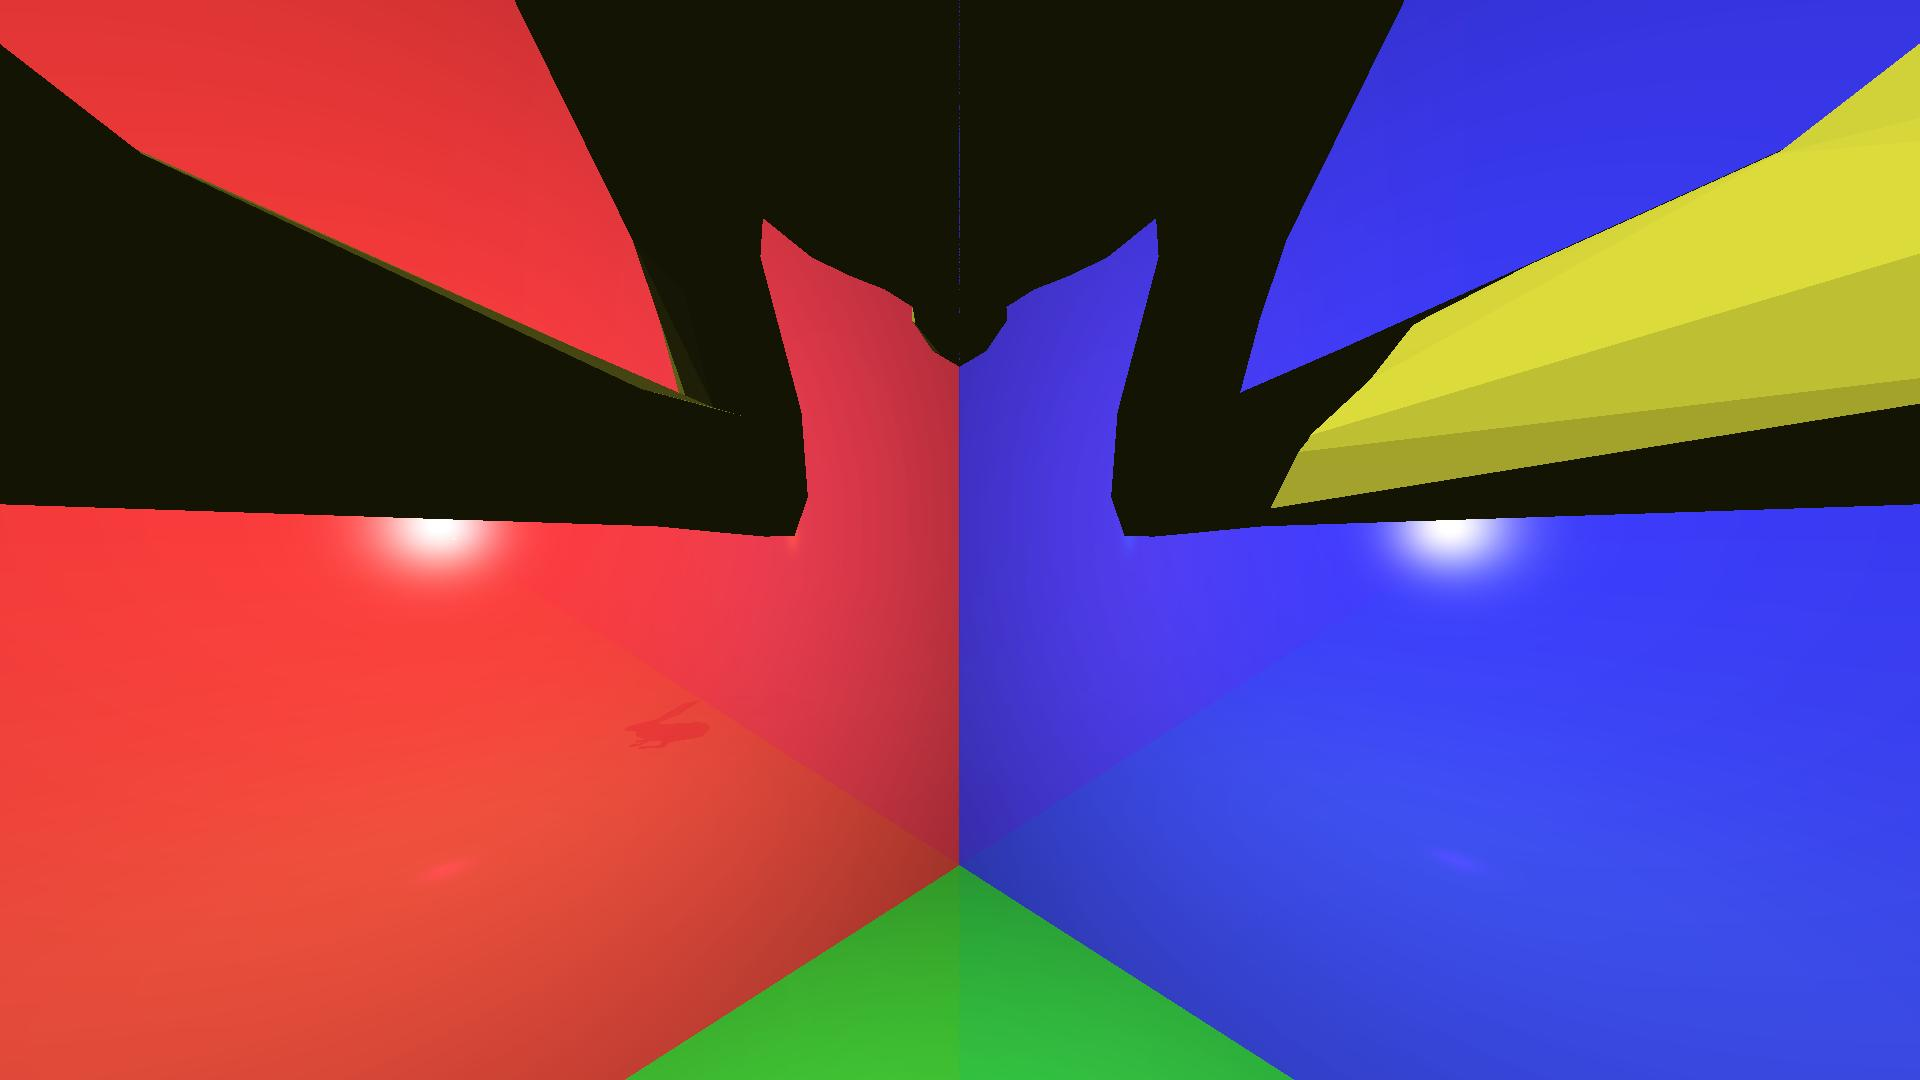
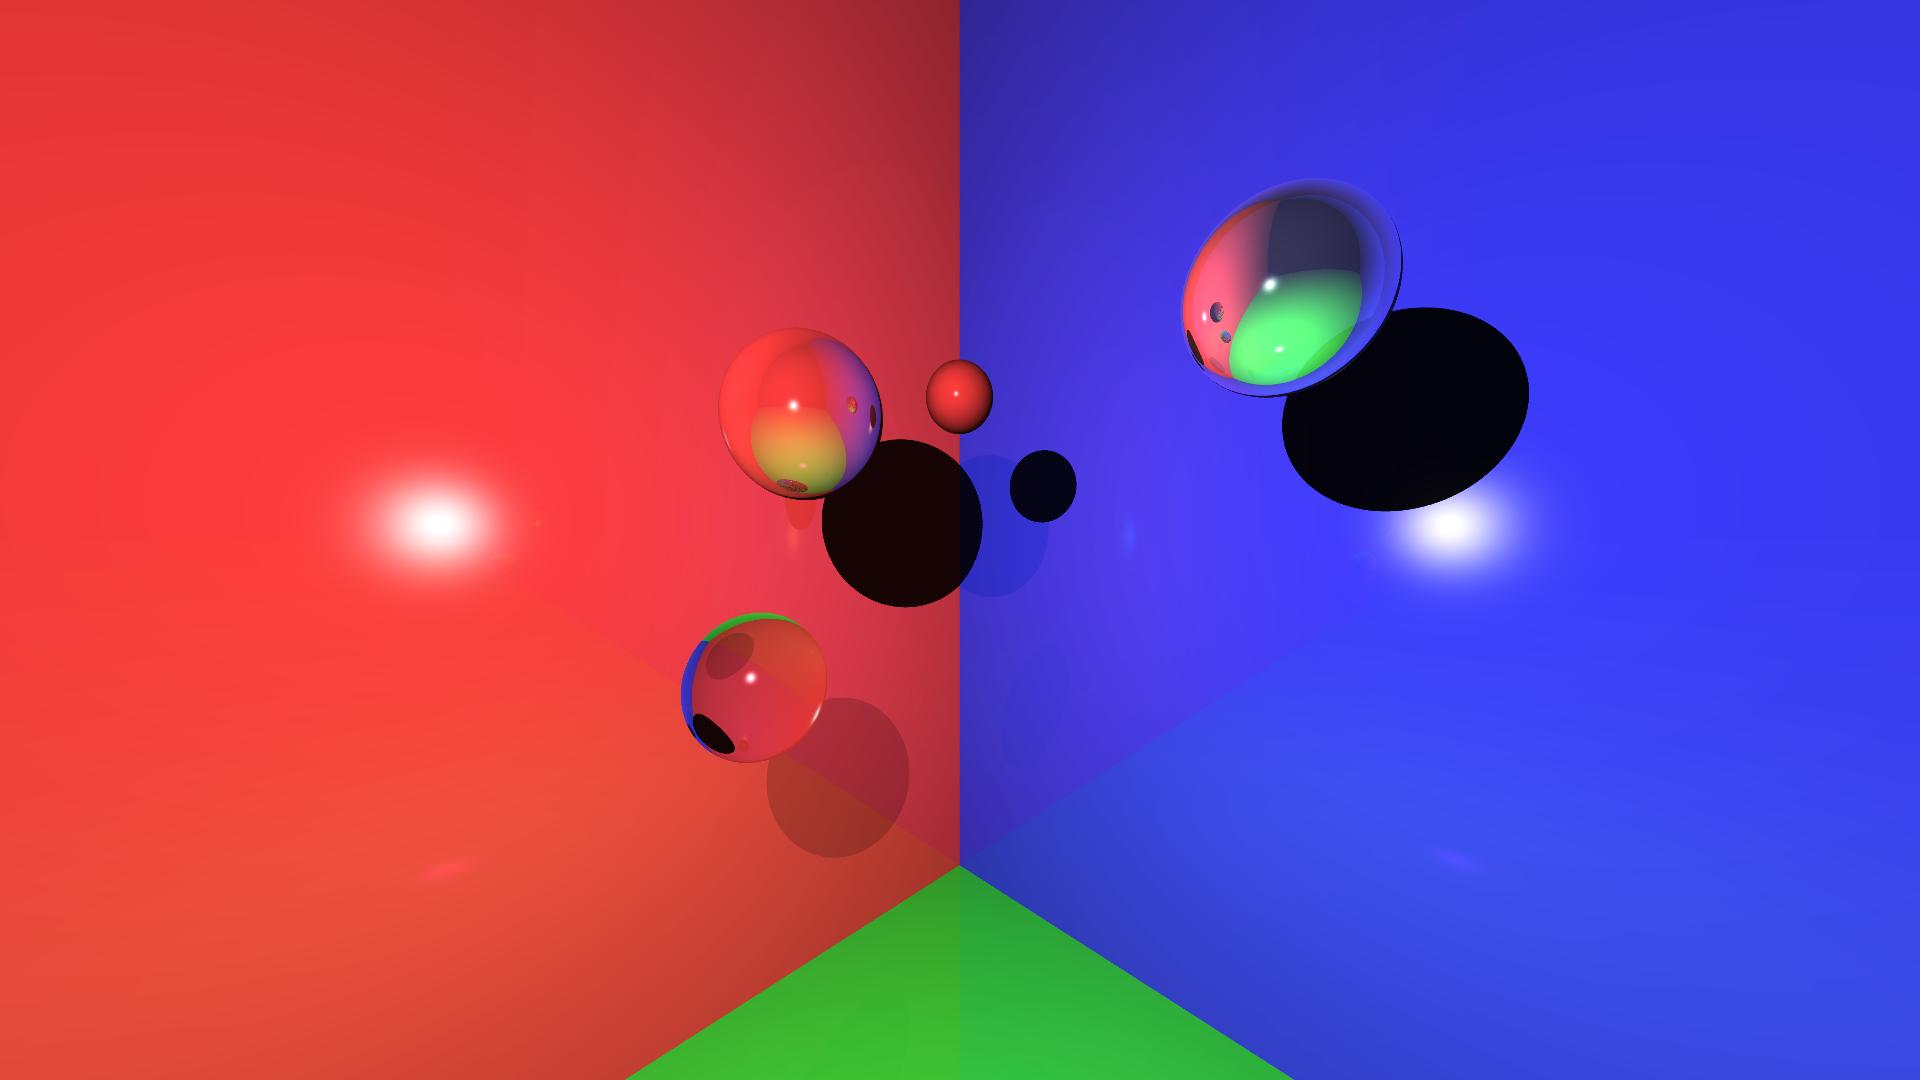
asd

diff --git a/src/trazadorrayos/Escena.java b/src/trazadorrayos/Escena.java
@@ -459,7 +459,7 @@ public class Escena {
 		}
 		ArrayList<Triangulo> lTriangulo = LeerObj.leerFigura(obj, refraccion,
 				reflectividad, transparencia, KD, KS);
-		Matrix4d mT = Operaciones.matrizTraslacion(new Point4d(0, 0, -5, 1));
+		Matrix4d mT = Operaciones.matrizTraslacion(new Point4d(0, -0.5, -1, 1));
 
 		for (int i = 0; i < lTriangulo.size(); i++) {
 			Matrix4d mRotacion = Operaciones.rotacionY(40);

diff --git a/src/trazadorrayos/Trazador.java b/src/trazadorrayos/Trazador.java
@@ -16,7 +16,7 @@ public class Trazador {
 	public static void main(String[] args) {
 		int MaxDepth = 7;
 		// double minIntensity = 1;
-		int antialiasing = 1;
+		int antialiasing = 3;
 		// TODO code application logic here
 		// Cargas la escena
 		Escena escena = Escena.leerEscena("escena.txt");
